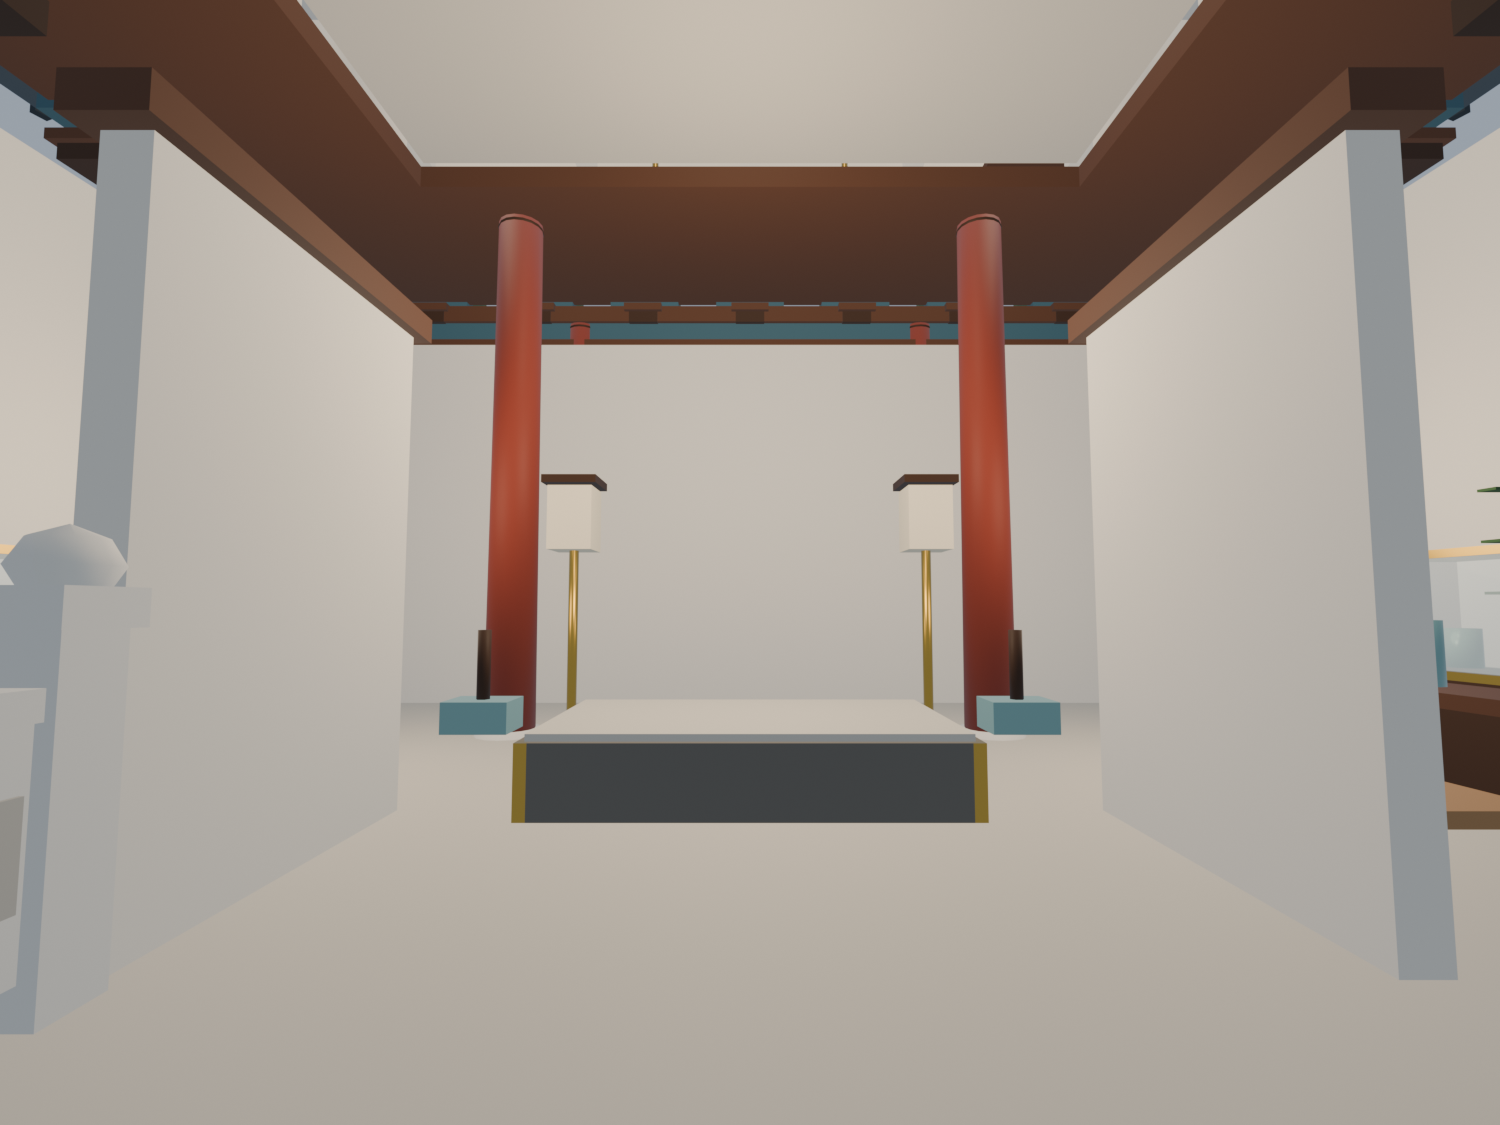
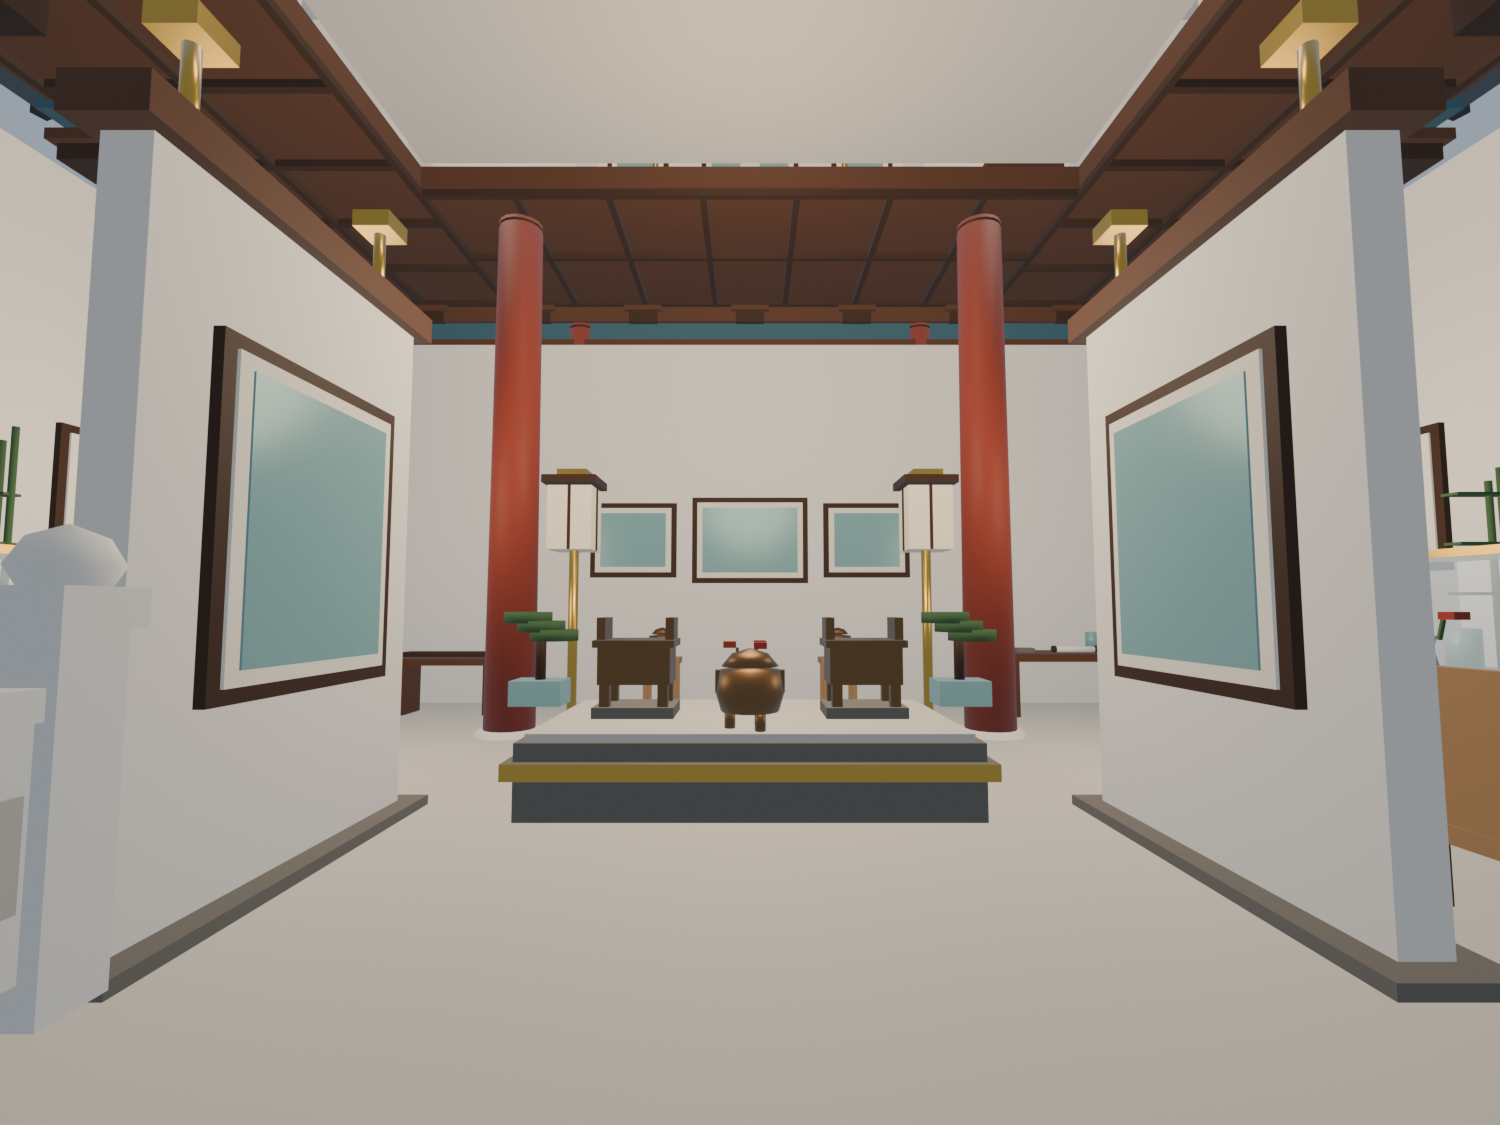
fix(gallery): close second-floor coffered ceiling and refresh Huazhang renders

diff --git a/assets/gallery3d/scripts/v6/hall_dressing.py b/assets/gallery3d/scripts/v6/hall_dressing.py
@@ -235,7 +235,9 @@ def build_finish(col):
         grid_ceiling("COFFER_1F_L%d" % sx, FY2 - 0.30, xa, xb, -IN_Z + 0.05, IN_Z - 0.05)
     for sz, (za, zb) in enumerate(((-IN_Z + 0.05, -2.40), (2.40, IN_Z - 0.05))):
         grid_ceiling("COFFER_1F_F%d" % sz, FY2 - 0.30, -3.40, 3.40, za, zb)
-    # 二层：满铺
+    # 二层：满铺（先加一层顶板，否则格眼里会直接看到瓦背）
+    K.box("COFFER_2F_Slab", (0.0, FY2 + COL_H2 - 0.04, 0.0), (IN_X * 2 - 0.1, 0.05, IN_Z * 2 - 0.1),
+          "M_wall_plaster", col)
     grid_ceiling("COFFER_2F", FY2 + COL_H2 - 0.10, -IN_X + 0.05, IN_X - 0.05, -IN_Z + 0.05, IN_Z - 0.05)
 
     # ---- 地面拼花：中央大方砖 + 四周深色边线 ----
